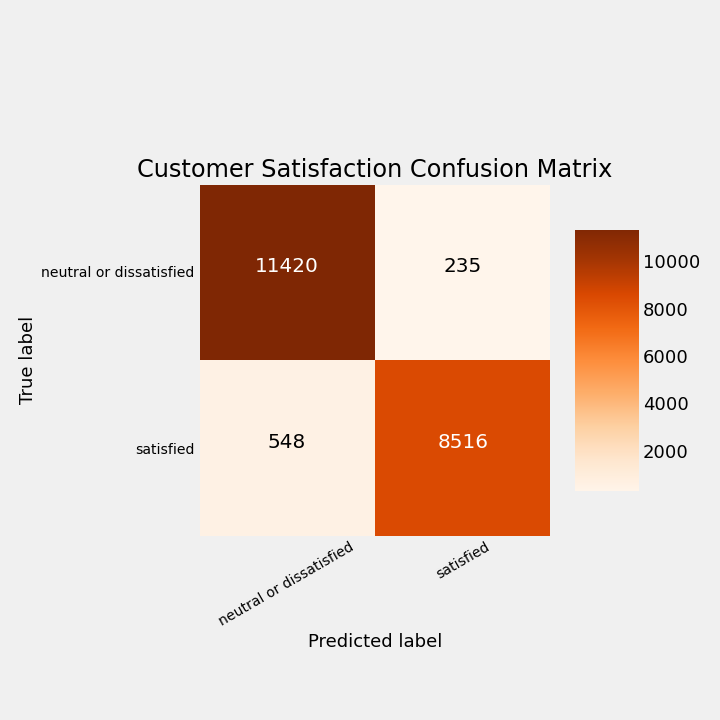
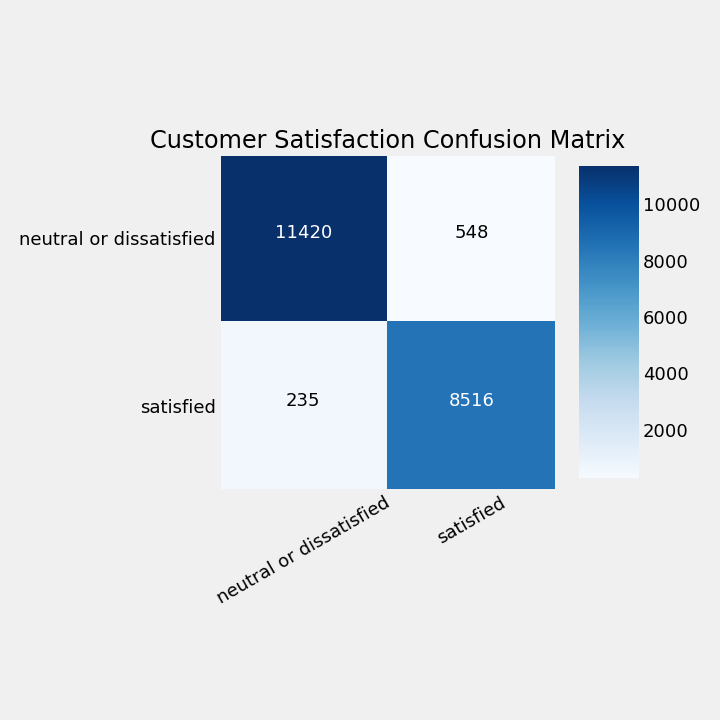
small edits

diff --git a/AirlinePassengerSatisfaction.py b/AirlinePassengerSatisfaction.py
@@ -166,56 +166,29 @@ display('========== Confusion Matrix ==========')
 display(conf_matrix)
 display('========== END ==========')
 
+
+
+
 # Plot Confusion Matrix
 import matplotlib.pyplot as plt
-import itertools
-
-def plot_confusion_matrix(cm, classes,
-                          normalize=False,
-                          title='Confusion matrix',
-                          cmap=plt.cm.Oranges):
-    """
-    This function prints and plots the confusion matrix.
-    Normalization can be applied by setting `normalize=True`.
-    Source: http://scikit-learn.org/stable/auto_examples/model_selection/plot_confusion_matrix.html
-    """
-    if normalize:
-        cm = cm.astype('float') / cm.sum(axis=1)[:, np.newaxis]
-        #print("Normalized confusion matrix")
-    else:
-        _a = 1
-        #print('Confusion matrix, without normalization')
-
-    #print(cm)
-
-    # Plot the confusion matrix
-    plt.figure(figsize = (10, 10))
-    plt.imshow(cm, interpolation='nearest', cmap=cmap)
-    plt.title(title, size = 24)
-    plt.colorbar(aspect=4)
-    tick_marks = np.arange(len(classes))
-    plt.xticks(tick_marks, classes, rotation=30, size = 14)
-    plt.yticks(tick_marks, classes, size = 14)
-
-    fmt = '.2f' if normalize else 'd'
-    thresh = cm.max() / 2.
-    
-    # Labeling the plot
-    for i, j in itertools.product(range(cm.shape[0]), range(cm.shape[1])):
-        plt.text(j, i, format(cm[i, j], fmt), fontsize = 20,
-                 horizontalalignment="center",
-                 color="white" if cm[i, j] > thresh else "black")
-        
-    plt.grid(None)
-    plt.tight_layout()
-    plt.ylabel('True label', size = 18)
-    plt.xlabel('Predicted label', size = 18)
-
-# Confusion matrix
-plot_confusion_matrix(conf_matrix, classes = lenc.inverse_transform(target_possibilities),
-                      title = 'Customer Satisfaction Confusion Matrix')
-
+plt.figure(figsize = (10, 10))
+cmap = plt.cm.Blues
+plt.imshow(conf_matrix,cmap=cmap)
+plt.grid(None)
+plt.title('Customer Satisfaction Confusion Matrix', size = 24)
+plt.colorbar(aspect=5)
+output_labels = lenc.inverse_transform(target_possibilities)
+tick_marks = np.arange(len(output_labels))
+plt.xticks(tick_marks,output_labels,rotation=30)
+plt.yticks(tick_marks,output_labels)
+for ii in range(len(output_labels)):
+    for jj in range(len(output_labels)):
+        if conf_matrix[ii,jj] > np.max(conf_matrix)/2:
+            plt.text(ii,jj,conf_matrix[ii,jj],horizontalalignment="center",color="white")
+        else:
+            plt.text(ii,jj,conf_matrix[ii,jj],horizontalalignment="center")
 plt.savefig('RF_ConfusionMatrix.png')
+
 plt.show()
 
 
